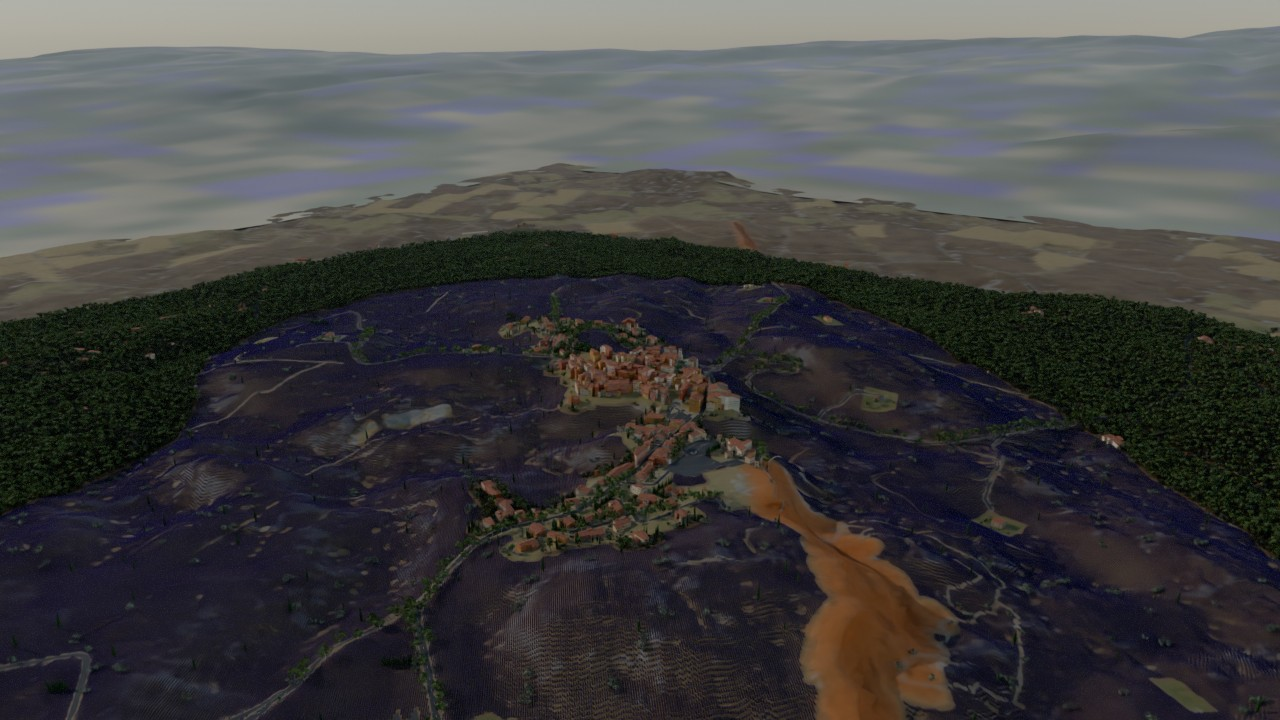
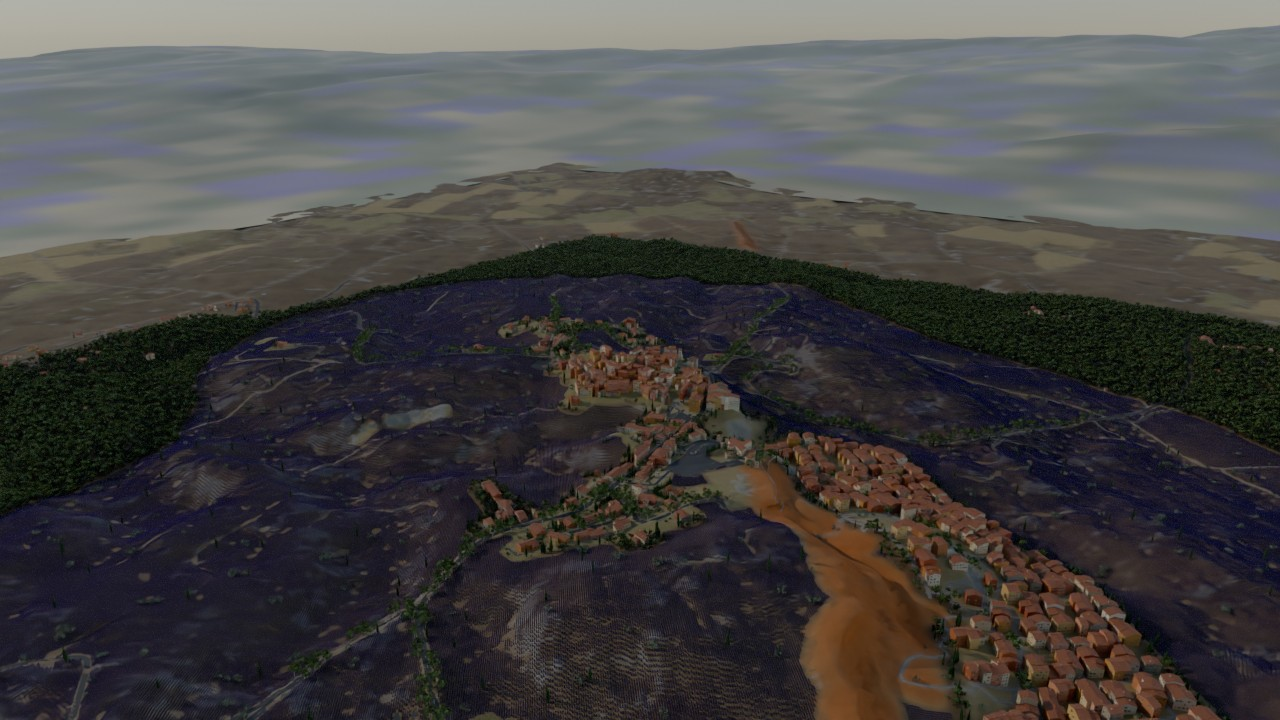
Aperçus : quartier des Ocres (vue aérienne, ruelle)
Claude-Session: https://claude.ai/code/session_01MVWCzaqNWTQZ4ZJYpCZv4k

diff --git a/Tools/VillageProvence/render_views.py b/Tools/VillageProvence/render_views.py
@@ -19,7 +19,7 @@ _V = {
     "vue_generale": ((-620, 330, 90), (-10, 20, 8), 30),
     "aerien_village": ((250, -310, 210), (-15, 20, 5), 30),
     "aerien_ceinture": ((620, -900, 480), (-80, 30, 0), 24),
-    "quartier_ocres": ((260.8, -53.6, 1.7), (285.8, -36.6, 3.0), 22),
+    "quartier_ocres": ((622.0, -324.1, 1.7), (648.7, -346.4, 3.5), 22),
     "mas_lavande": ((-470, 40, 2.0), (-330, -10, 10), 30),
     "lavande_village": ((-360, 290, 1.8), (-60, 80, 14), 30),
     "place": ((-8.5, 16.0, 1.65), (6, 6, 2.5), 20),

diff --git a/Plugins/VillageProvence/README.md b/Plugins/VillageProvence/README.md
@@ -29,6 +29,8 @@ Un village provençal complet de **4 × 4 km**, construit sur le **plan réel de
 | **Intérieurs** | 135 bâtiments visitables : 105 maisons (à étage, de plain-pied, sur 3 niveaux avec colimaçon), 28 commerces, la mairie et l'église ; 8 ambiances ; portes qui s'ouvrent. |
 | **Parkour** | Planches entre les toits, échelles, échafaudages, caisses, balcons praticables. |
 
+![Une ruelle du quartier des Ocres](Docs/quartier_ocres.jpg)
+
 ![Les champs de lavande au pied du village](Docs/lavande_village.jpg)
 
 Tout est généré : aucune texture, aucun modèle ni aucun son n'a été copié d'Internet. Les textures (pierre, enduit à la chaux, tuiles canal, calade…) ont été calculées pour ce projet.
